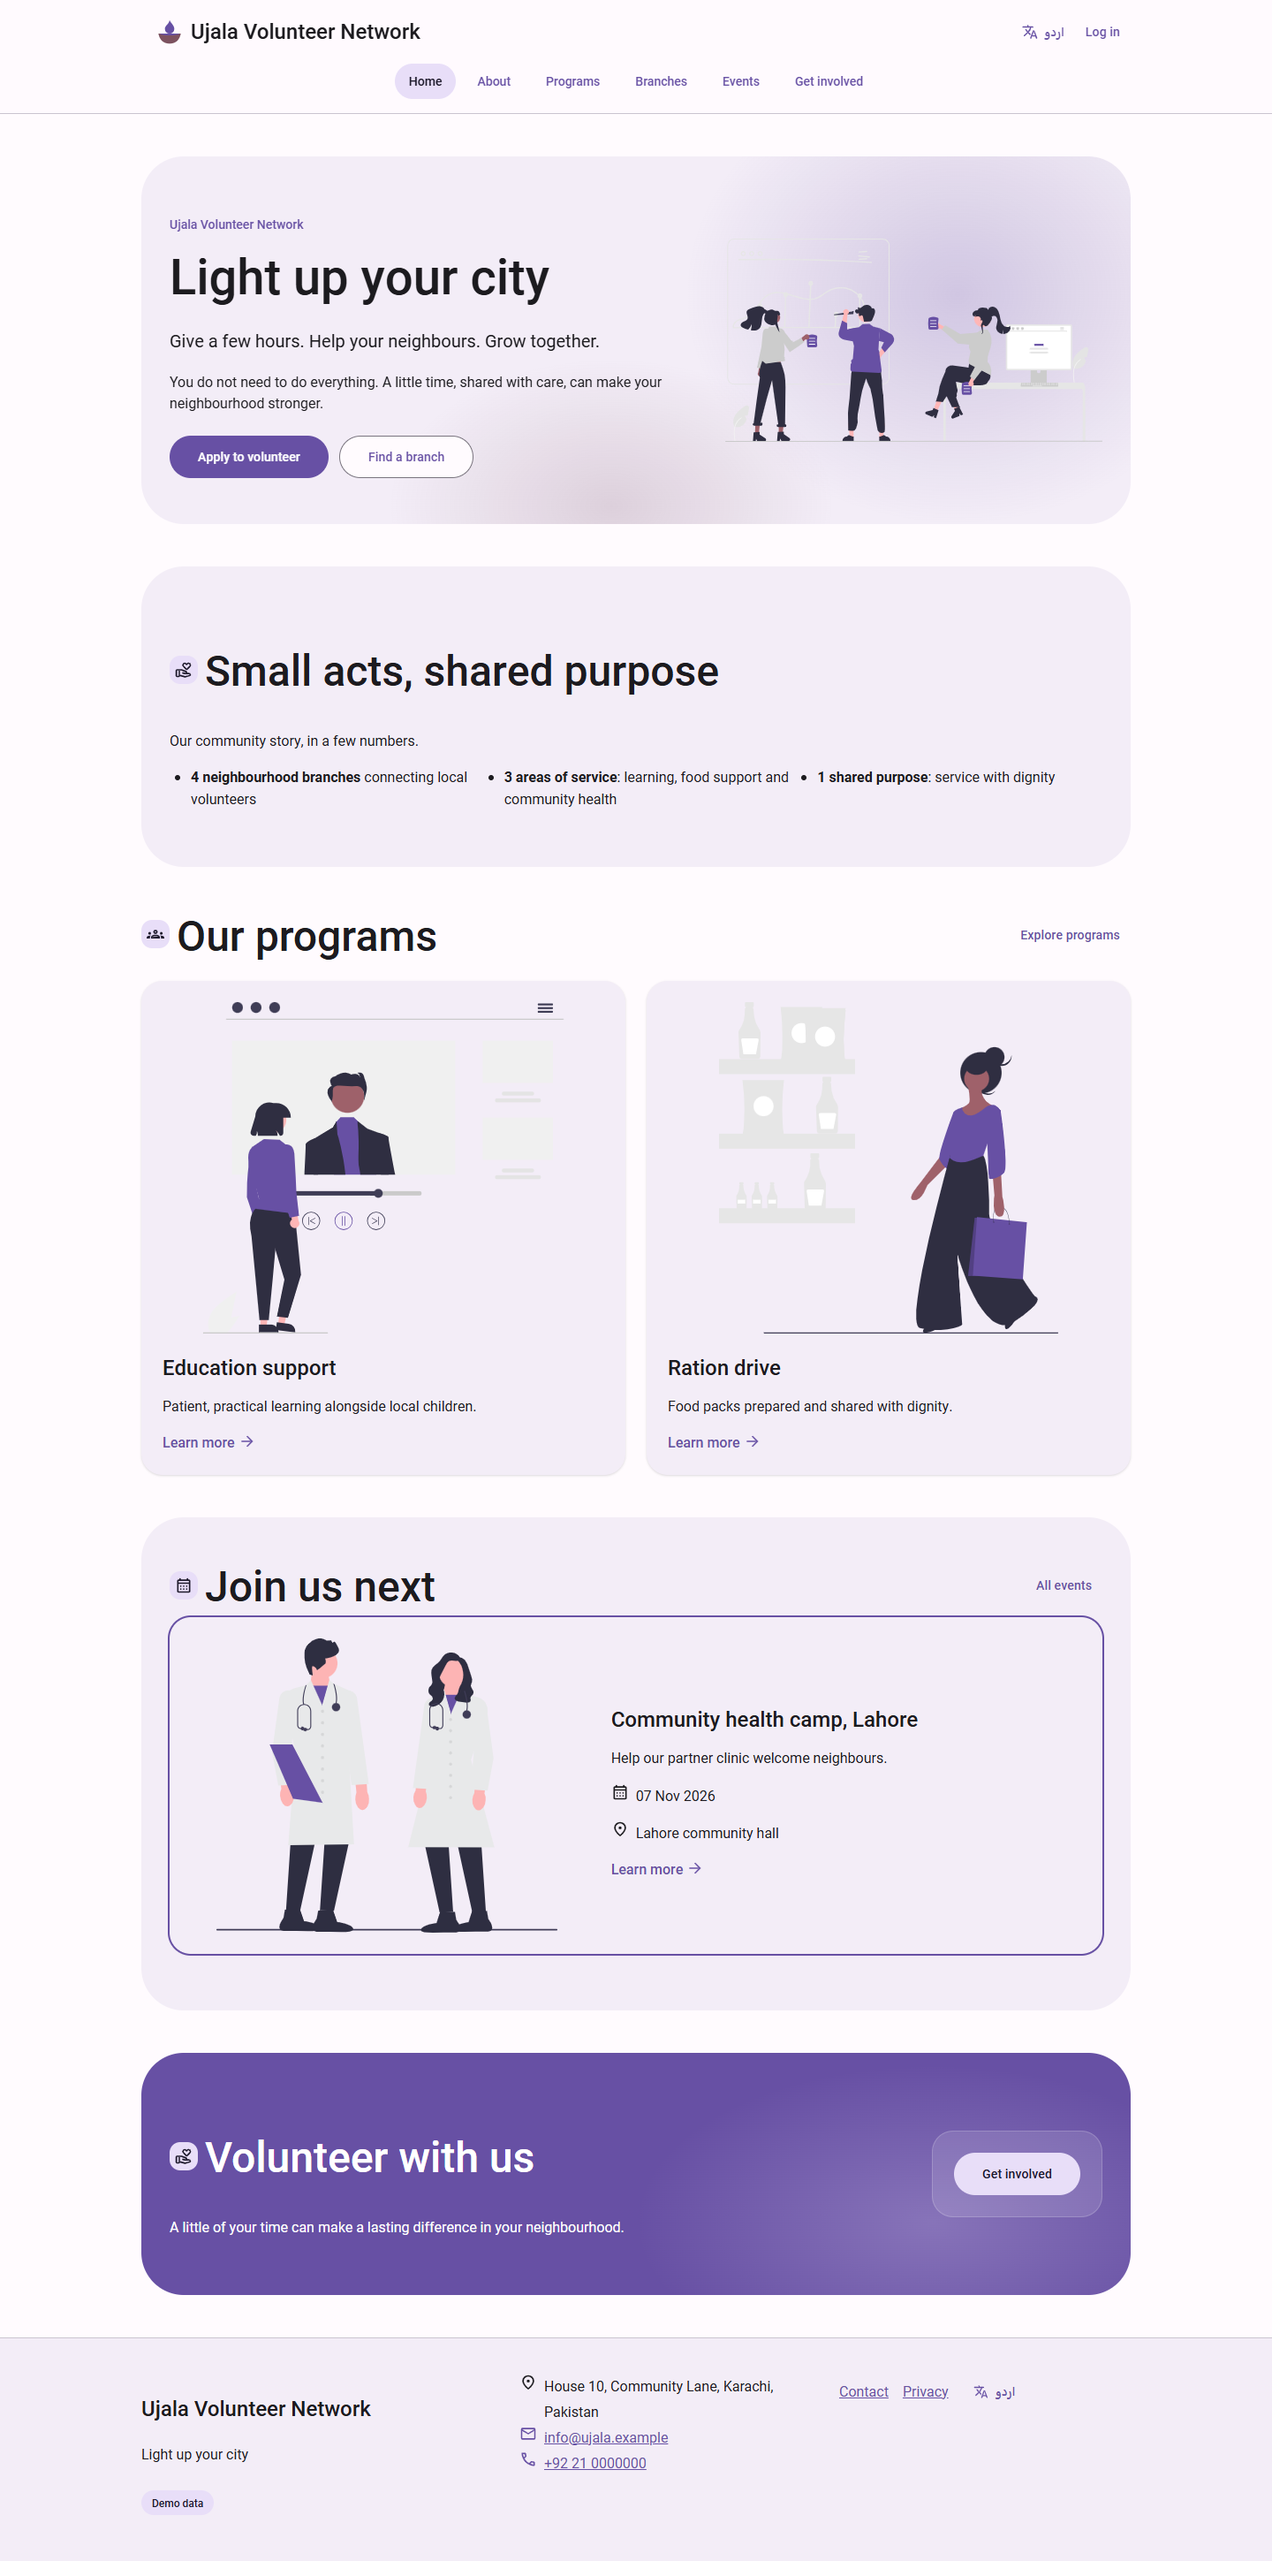
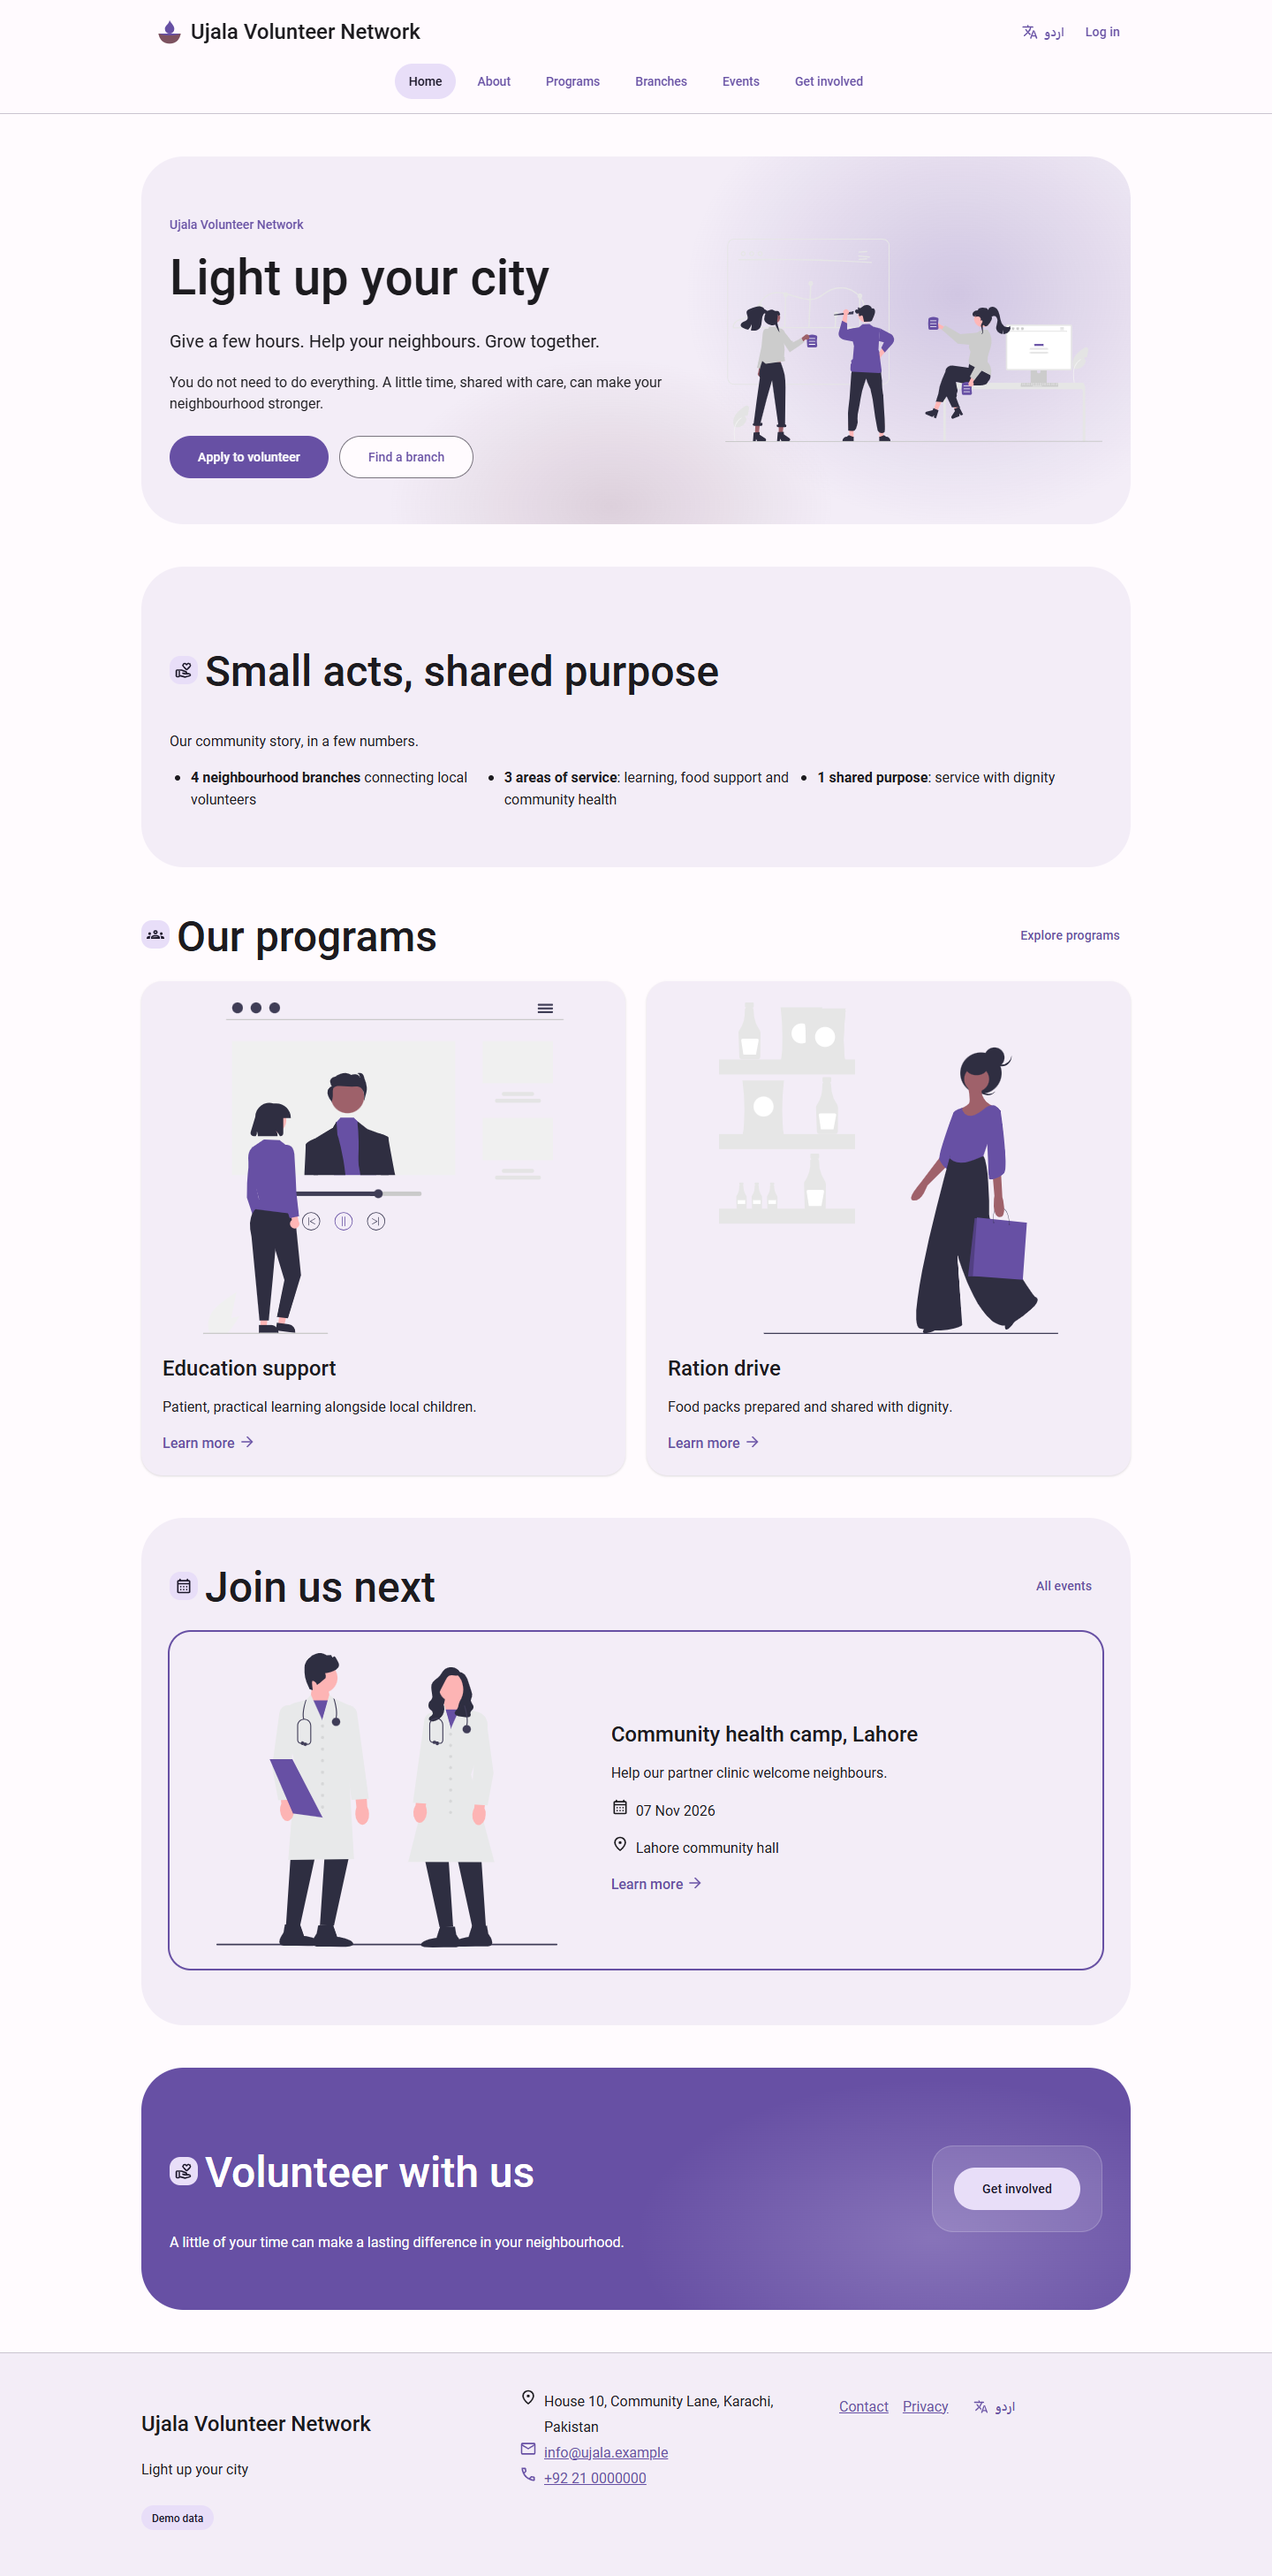
fix(ui): stop dashboard tables clipping and correct the featured card gap

diff --git a/static/css/layout.css b/static/css/layout.css
@@ -1,5 +1,6 @@
 body { display: flex; flex-direction: column; }
 .container { inline-size: 100%; max-inline-size: 72rem; margin-inline: auto; padding-inline: var(--md-s4); }
+.staff-app .container { max-inline-size: 90rem; }
 .site-header, .site-footer { padding-block: var(--md-s4); }
 .site-footer { background: var(--md-surface-container); }
 .site-header { border-block-end: 1px solid var(--md-outline-variant); }
@@ -137,7 +138,8 @@ nav { display: flex; flex-wrap: wrap; align-items: center; gap: var(--md-s4); }
 }
 @media (width < 480px) { .brand-full { display: none; } .brand-short { display: inline; } }
 @media (width >= 768px) {
-  .section-heading + .card--featured { margin-block-start: var(--md-s4); }
+  /* This margin collapses with the heading's 24px; the card's 16px lift then leaves a 24px gap. */
+  .section-heading + .card--featured { margin-block-start: calc(var(--md-s5) + var(--md-s4)); }
   .public-card.card--featured { display: grid; grid-template-columns: minmax(0, 1fr) minmax(0, 1.2fr); align-items: center; gap: var(--md-s6); }
 }
 

diff --git a/tests/e2e/test_dashboard_width.py b/tests/e2e/test_dashboard_width.py
@@ -1,0 +1,38 @@
+"""Desktop tables fit their containers and lifted cards clear their headings."""
+
+import pytest
+
+pytestmark = pytest.mark.e2e
+
+
+@pytest.mark.parametrize("language", ["en", "ur"])
+@pytest.mark.parametrize("width", [1280, 1440])
+def test_e2e_finance_dashboard_tables_fit(page, target_url, login, language, width):
+    page.set_viewport_size({"width": width, "height": 1000})
+    login("finance", language)
+    page.goto(
+        f"{target_url}/{language}/app/dashboard/?period=2026-10",
+        wait_until="networkidle",
+    )
+    page.evaluate("document.fonts.ready")
+    tables = page.locator(".table-container").evaluate_all("""elements => elements.map(
+        element => ({
+            text: element.textContent.trim(),
+            scrollWidth: element.scrollWidth,
+            clientWidth: element.clientWidth
+        }))""")
+    assert tables
+    assert all(table["scrollWidth"] <= table["clientWidth"] for table in tables), tables
+
+
+@pytest.mark.parametrize("language", ["en", "ur"])
+def test_e2e_home_featured_card_heading_gap(page, target_url, language):
+    page.set_viewport_size({"width": 1440, "height": 1000})
+    page.goto(f"{target_url}/{language}/", wait_until="networkidle")
+    page.evaluate("document.fonts.ready")
+    cards = page.locator(".section-heading + .card--featured")
+    assert cards.count() > 0
+    gaps = cards.evaluate_all("""elements => elements.map(element =>
+        element.getBoundingClientRect().top
+        - element.previousElementSibling.getBoundingClientRect().bottom)""")
+    assert all(gap >= 23 for gap in gaps), gaps

diff --git a/docs/testing.md b/docs/testing.md
@@ -326,3 +326,23 @@ D4 mobile Lighthouse medians, three completed runs per configured page:
 
 All fifteen individual audits scored at least 99 in every category. Collection
 ran after the test workloads finished; only the localhost HTTPS audit was skipped.
+
+## D5 dashboard width and featured-card gap
+
+The full PostgreSQL suite passed 2,208 tests, 0 failed (67 browser/visual cases
+deselected), with 97.86% app coverage. Ruff, formatting and conventions passed.
+
+The full local E2E suite passed 48/48, including Finance dashboard tables at
+1280 and 1440 px in EN/UR: every `.table-container` has `scrollWidth <= clientWidth`.
+Both home pages at 1440 px passed the measured minimum 23 px gap between the
+section heading and its following featured card. The eight EN/UR viewports
+(360, 412, 768 and 1440 px) passed too, including page overflow checks.
+
+All four home/dashboard screenshots were recaptured using D4's Chrome settings
+(1440×1000, DPR 1, fonts and lazy images ready) and visually reviewed: dashboard
+columns are visible and the featured-card heading gap is clear. The empty-state
+planning row now matches the illustration used since D4.
+
+Lighthouse was not rerun for D5: these CSS changes affect staff pages or viewports
+768 px and wider, so the mobile public-page audits are unaffected. CI runs
+Lighthouse on push.

diff --git a/docs/planning/24-design-system.md b/docs/planning/24-design-system.md
@@ -74,7 +74,7 @@ Contrast checks to verify in tests/Lighthouse: on-surface on surface ≈ 16:1; p
 | **Tables** `.data-table` | Inside a card; header row on surface-container-low; row hover is a state layer only (**no scale on rows** — scaling tables causes layout jank); numbers `text-align: end` with `<bdi>`; card layout under 640px (existing behaviour). |
 | **Navigation** | Top app bar: surface at 85% opacity with `backdrop-filter: blur(12px)` and a 1px outline-variant bottom border; sticky. Active nav item = secondary-container pill. Staff app on ≥ 1024px: a navigation rail/drawer with pill active indicator; mobile: the existing `<details>` menu styled as a sheet (radius 28px). |
 | **Messages / toasts** | Server flash messages as a snackbar-style card (inverse surface `#313033`, text `#F4EFF4`), radius 8px, `role="status"`; errors use error-container. |
-| **Empty states** | Card with a soft blob shape behind an icon, one sentence and a tonal button. |
+| **Empty states** | Card with an illustration, one sentence and a tonal button. |
 | **Dialogs** (confirm transitions) | Native `<dialog>` or a confirm page; radius 28px, `--md-elev-3`, scrim `rgb(0 0 0 / .32)`. |
 
 ## 4. Atmosphere: organic shapes — the performant way
